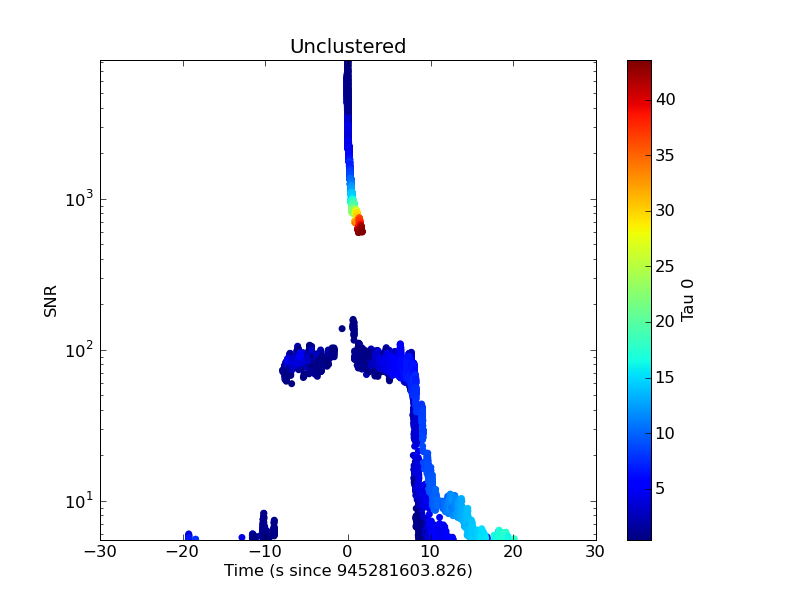
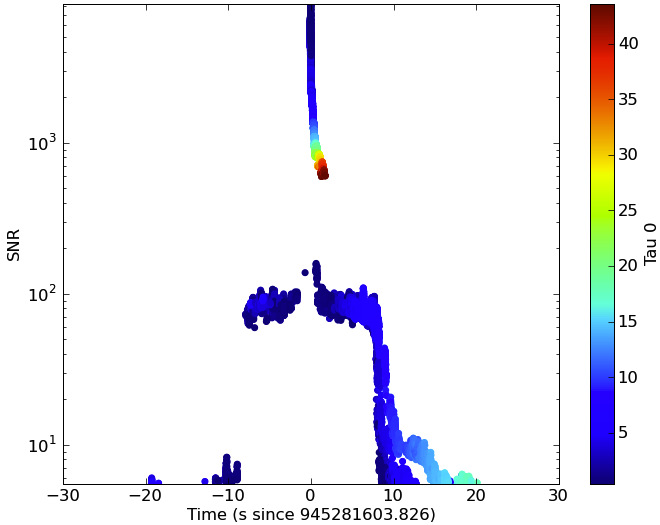
cropped spike glitch plot and resized

diff --git a/cdcapano/s6_results.tex b/cdcapano/s6_results.tex
@@ -963,7 +963,7 @@ the bottom plot, hence the high-amplitude noise lasts several seconds.}
 
 \begin{figure}[hp]
 \center
-\includegraphics[width=4in]{figures/spike_glitch/L1_945281603.png}
+\includegraphics[height=4in]{figures/spike_glitch/L1_945281603.png}
 \label{fig:spike_glitch-cbc_response}
 \caption{The unclustered triggers created by the spike glitch shown in
 \ref{fig:spike_glitch-example} when passed through \texttt{lalapps\_inspiral}.}
